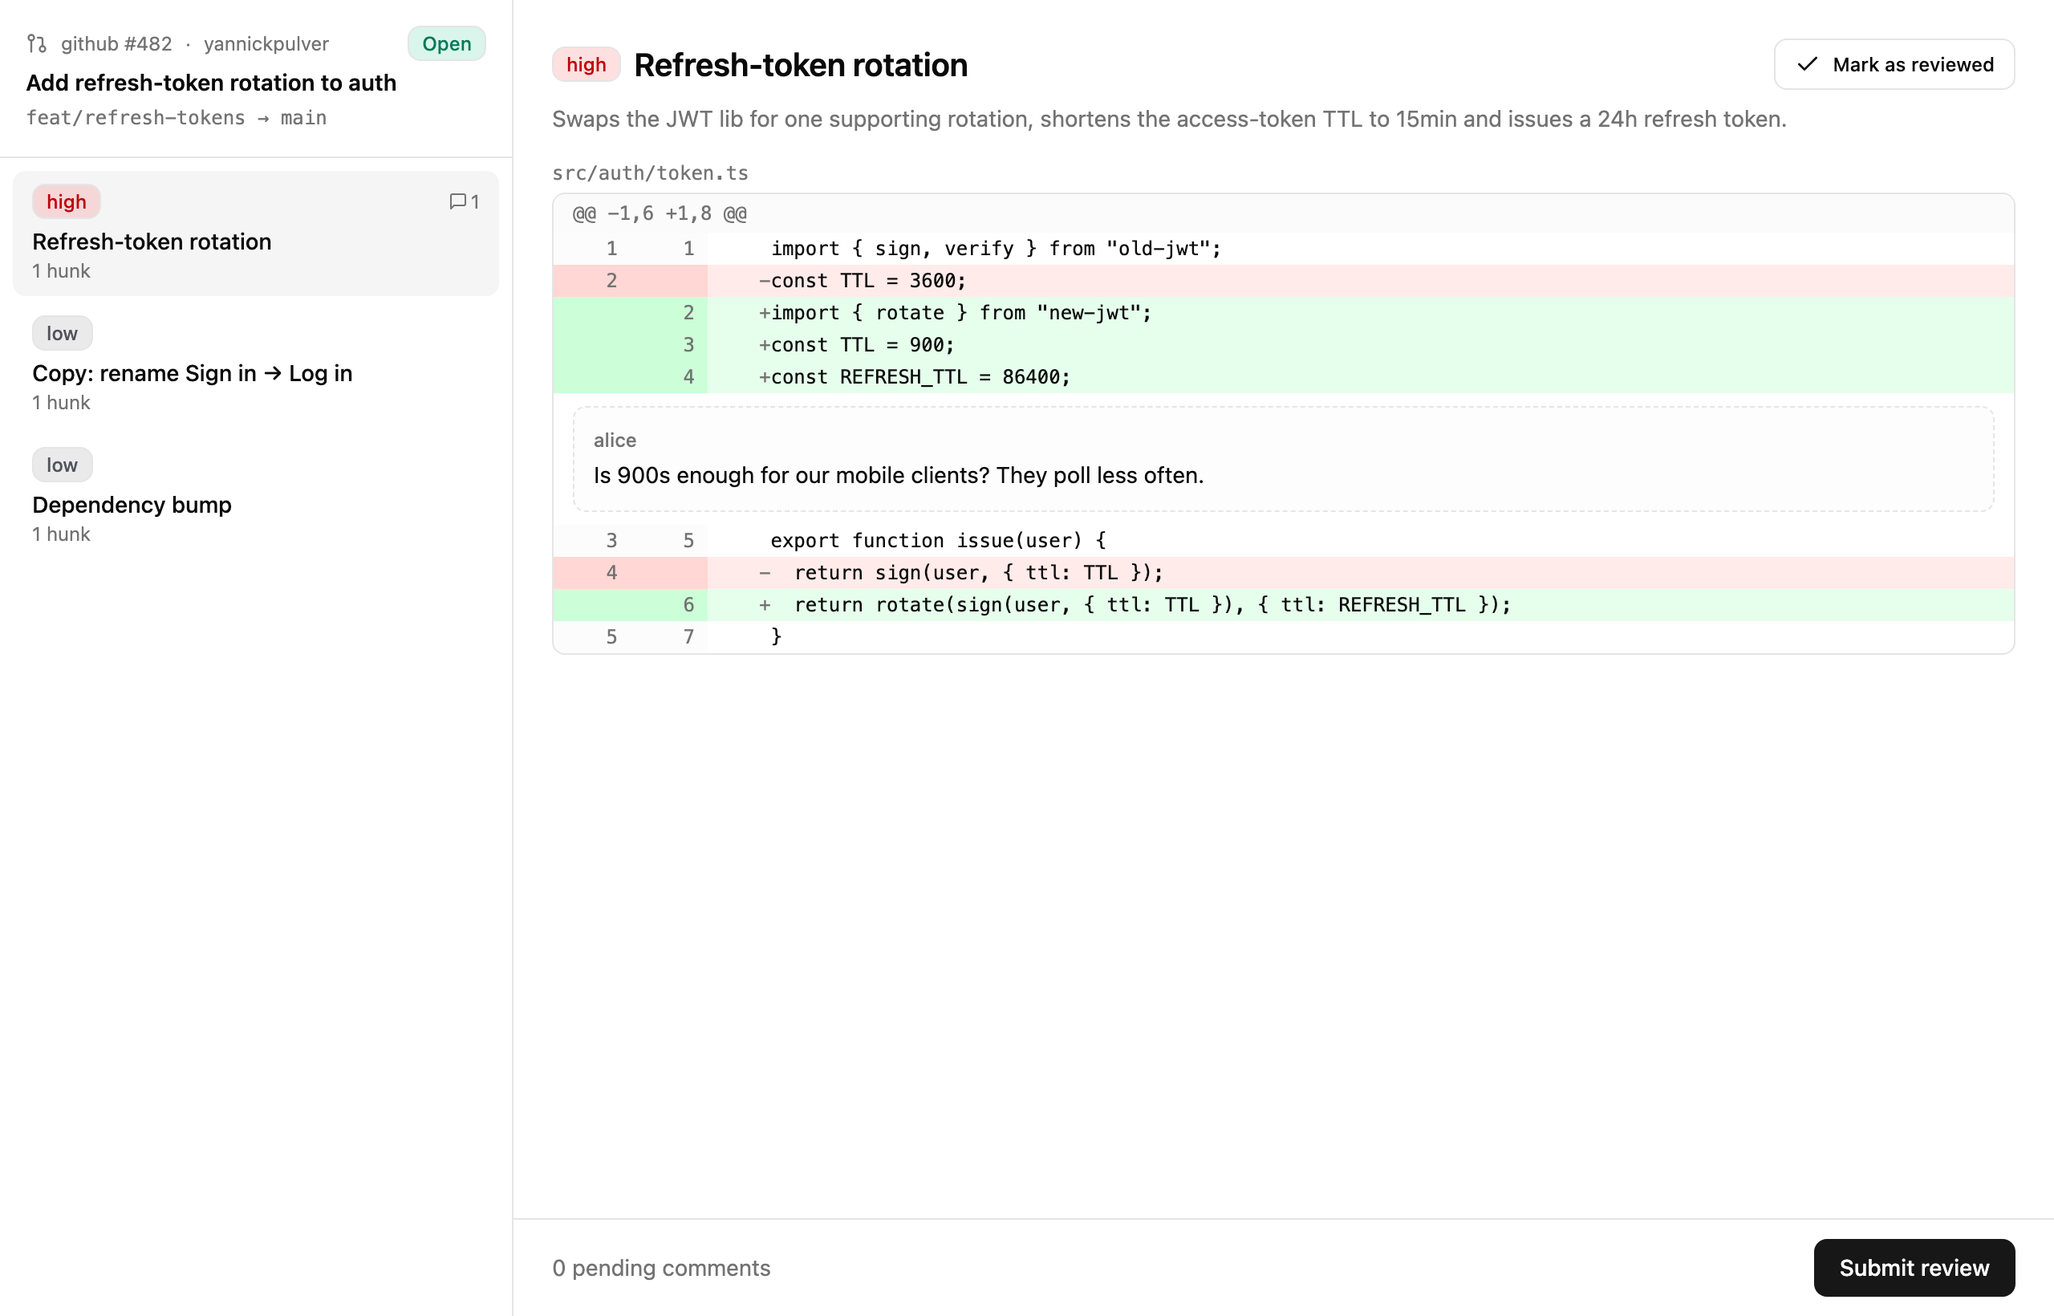
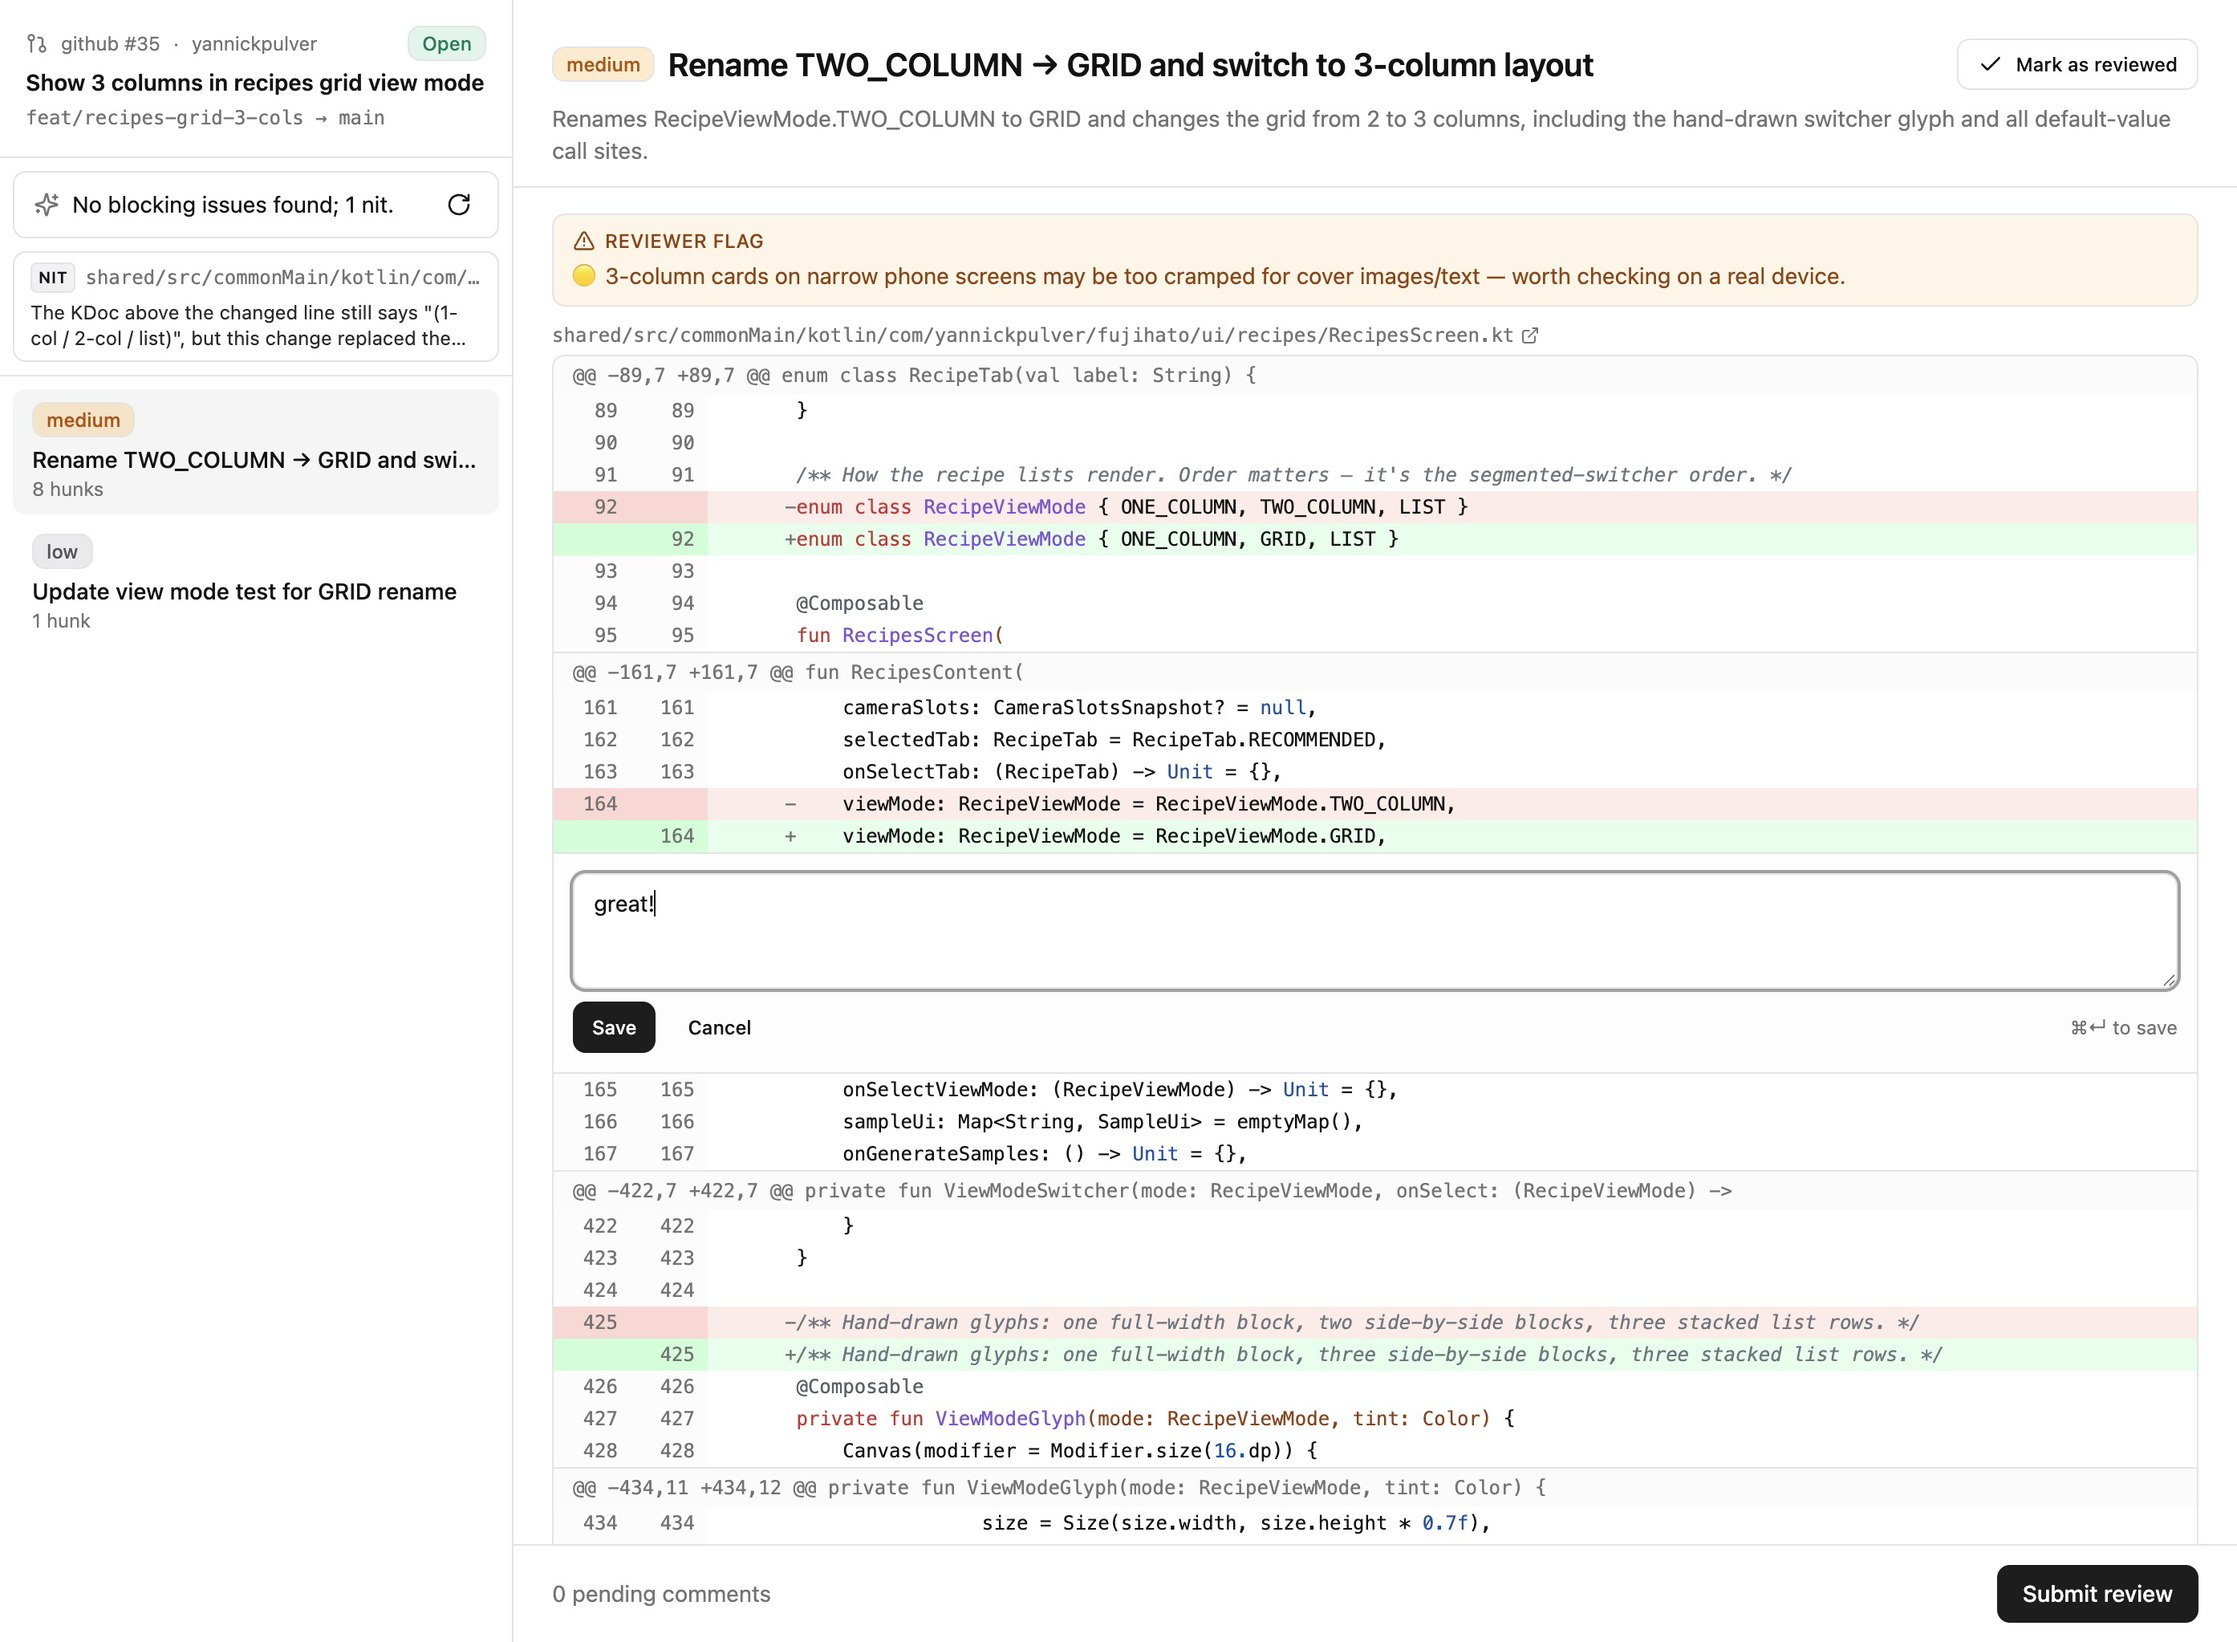
Isolate one-shot claude calls from user settings (--setting-sources ""), include output snippet in JSON parse errors, update README screenshot

diff --git a/src/group/claude.ts b/src/group/claude.ts
@@ -172,11 +172,18 @@ interface ClaudeEnvelope {
 }
 
 /**
- * Args for one-shot claude calls: JSON output, no built-in tools, no MCP servers.
- * Skipping tools/MCP keeps startup fast and forces a single-turn text answer.
+ * Args for one-shot claude calls: JSON output, no built-in tools, no MCP servers,
+ * no settings (CLAUDE.md/hooks/output styles would slow startup and can break
+ * the strict-JSON output contract).
  */
 export function claudeArgs(model?: string): string[] {
-  const args = ["-p", "--output-format", "json", "--tools", "", "--strict-mcp-config"];
+  const args = [
+    "-p",
+    "--output-format", "json",
+    "--tools", "",
+    "--strict-mcp-config",
+    "--setting-sources", "",
+  ];
   if (model) args.push("--model", model);
   return args;
 }
@@ -203,7 +210,8 @@ export function extractJsonObject(text: string): unknown {
   const start = candidate.indexOf("{");
   const end = candidate.lastIndexOf("}");
   if (start === -1 || end === -1 || end < start) {
-    throw new Error("no JSON object found in claude output");
+    const snippet = text.trim().slice(0, 200) || "(empty)";
+    throw new Error(`no JSON object found in claude output: ${snippet}`);
   }
   return JSON.parse(candidate.slice(start, end + 1));
 }

diff --git a/README.md b/README.md
@@ -9,7 +9,7 @@ submit them back as a single review.
 Everything runs locally. The only network calls are the ones `gh`/`glab` already
 make on your behalf.
 
-![Reviewer UI — grouped sections in the sidebar, the selected group's diff with an inline reviewer comment, and the submit bar](docs/screenshot.png?v=2)
+![Reviewer UI — grouped sections in the sidebar, an architect review flag, the selected group's diff with an inline reviewer comment, and the submit bar](docs/screenshot.png?v=3)
 
 ## How it works
 
